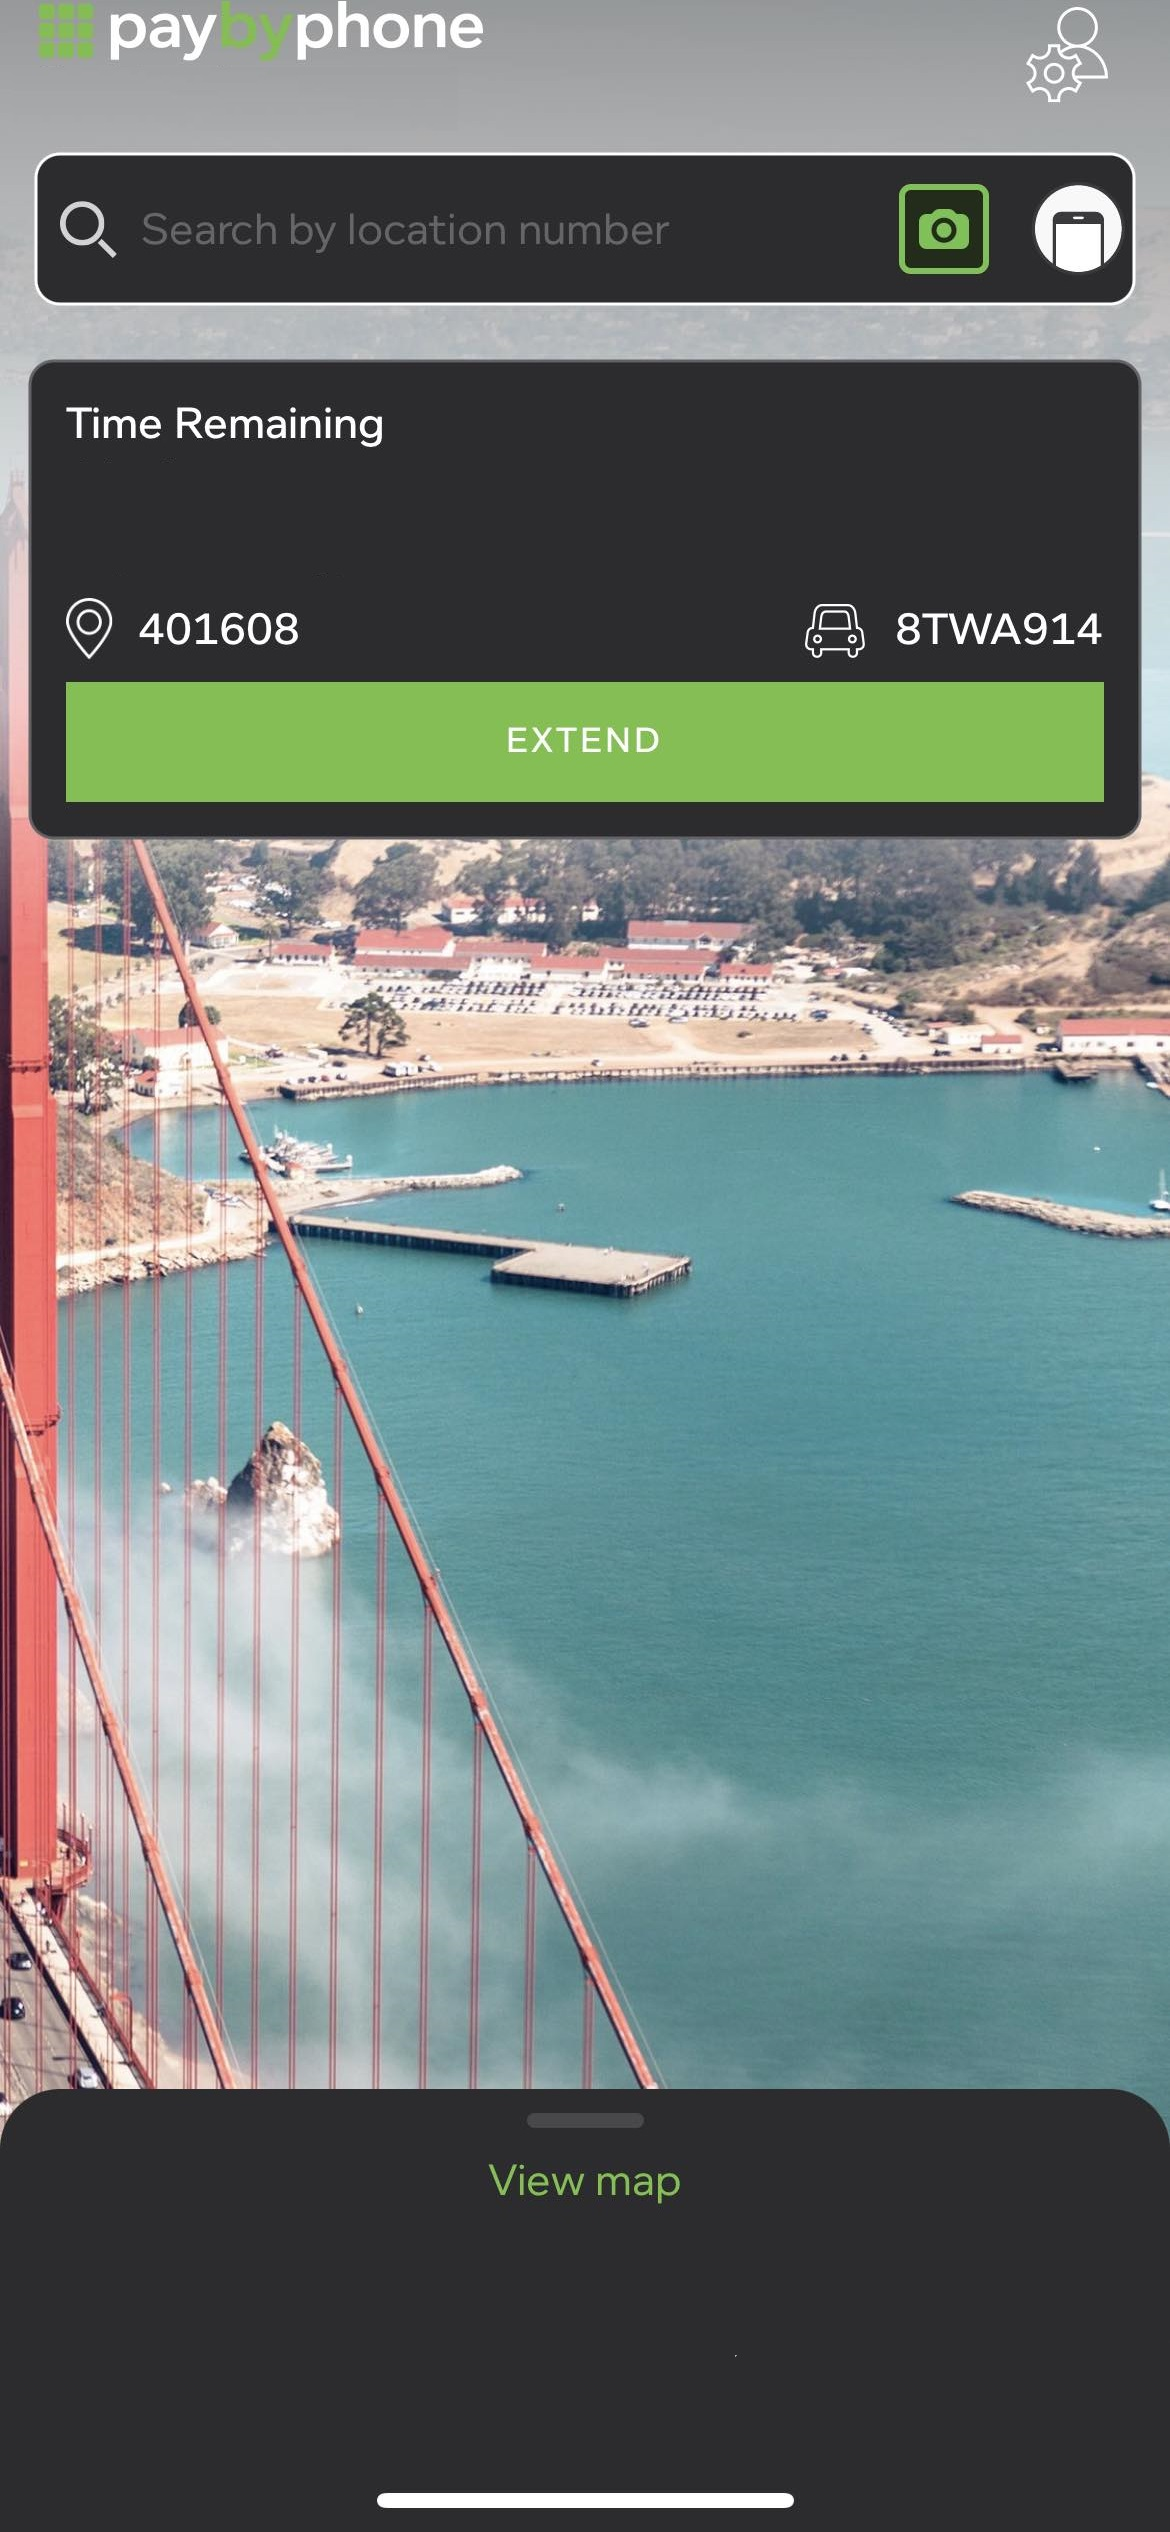
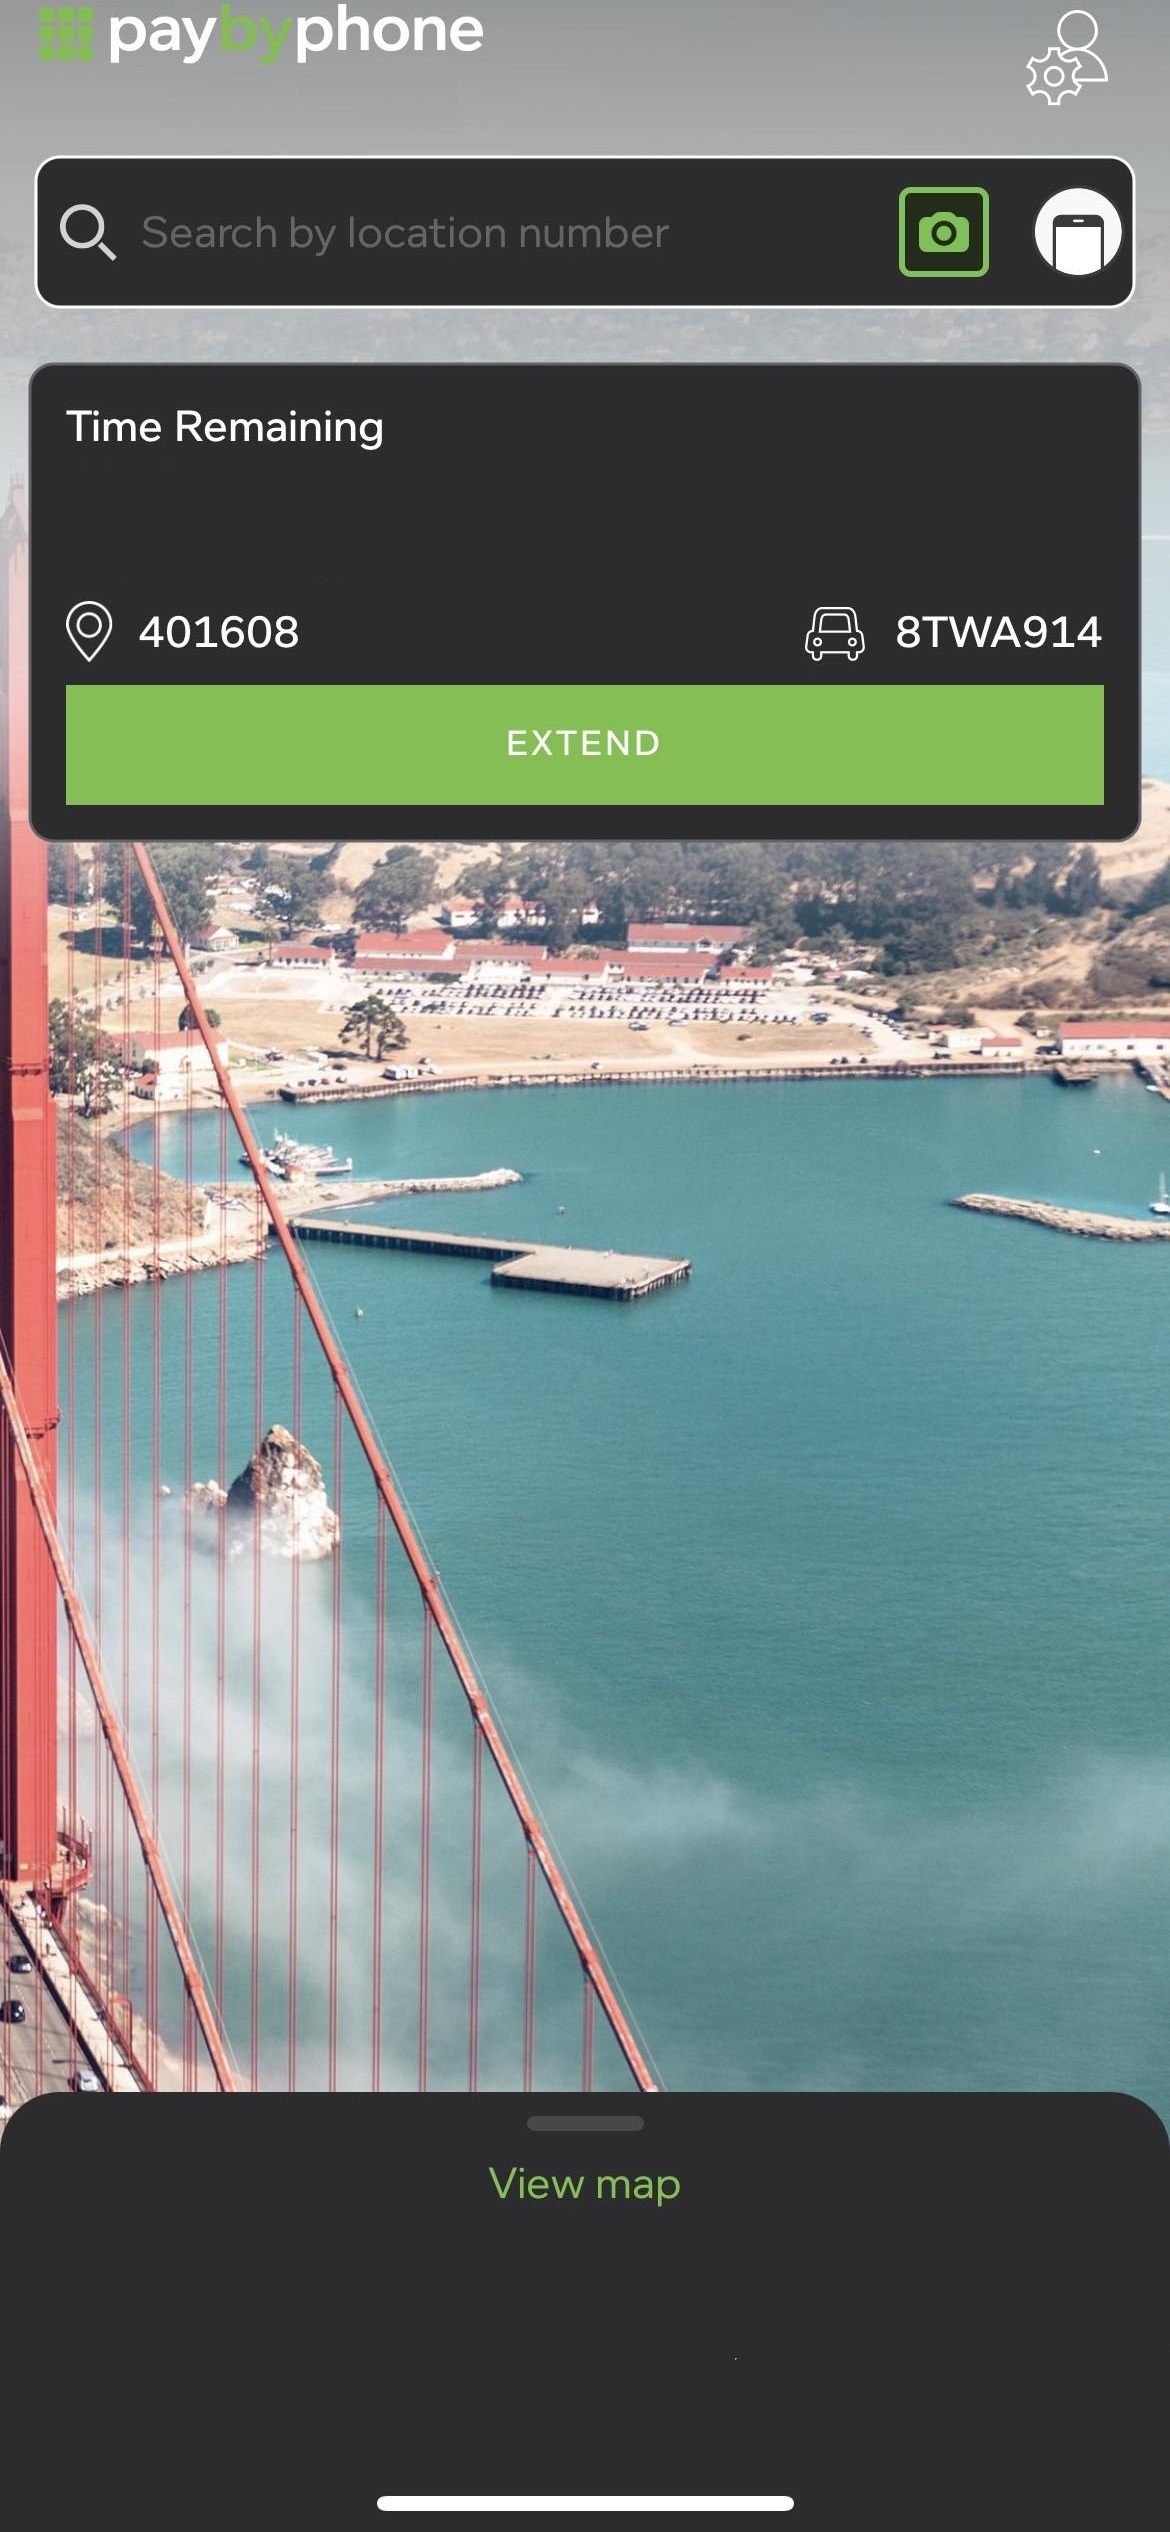
spacing

diff --git a/index.html b/index.html
@@ -17,7 +17,7 @@ body {margin: 0 0 0 0; background-color:#0F0F0F;}
 </head>
 <body>
     <div style="background-image: url('monthly.jpg'); height:100vh; width:100vw; background-size:cover; background-repeat:no-repeat; margin: 0 0 0 0"> 
-    <p style="font-family:'Nunito'; color: white; padding-left: 3vw; padding-top: 5.3vw; font-size: 30;">San Francisco</p>
+    <p style="font-family:'Nunito'; color: white; padding-left: 3vw; padding-top: 5.4vw; font-size: 30;">San Francisco</p>
     <p id="timeRemaining" style="font-family:'Nunito' ; font-size: 52; color: white; padding-left: 5.35vw; padding-top: 11.35vh;padding-bottom: 0px; margin-bottom: -.2vh;">
     </p>
     <p id="expiresAtTime" style="font-family:'Nunito'; font-size: 30; color:gray; margin-top: 0px; padding-left: 5.35vw; margin-top: 0px; padding-top: 0px;">
